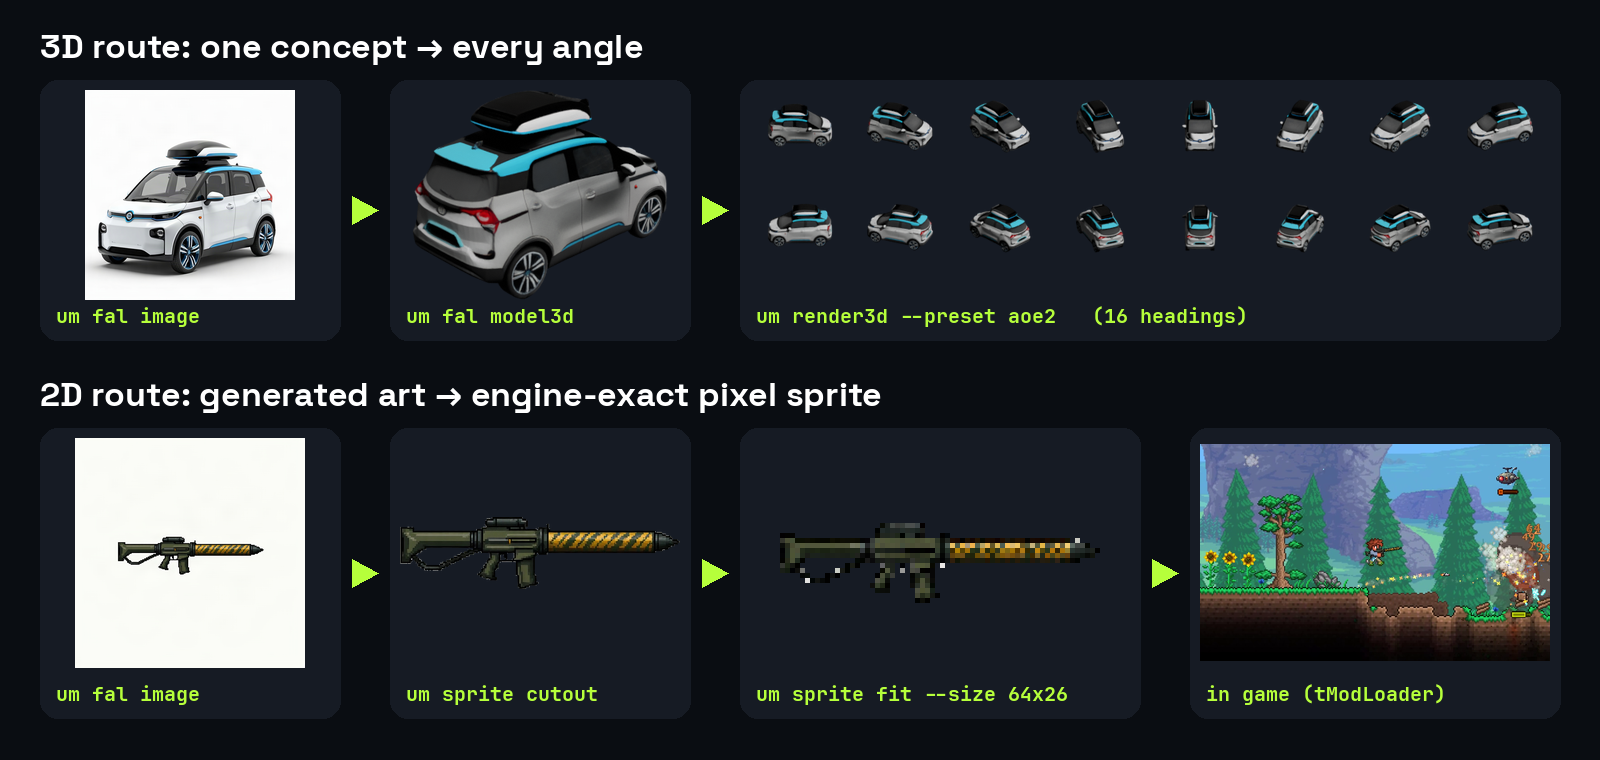
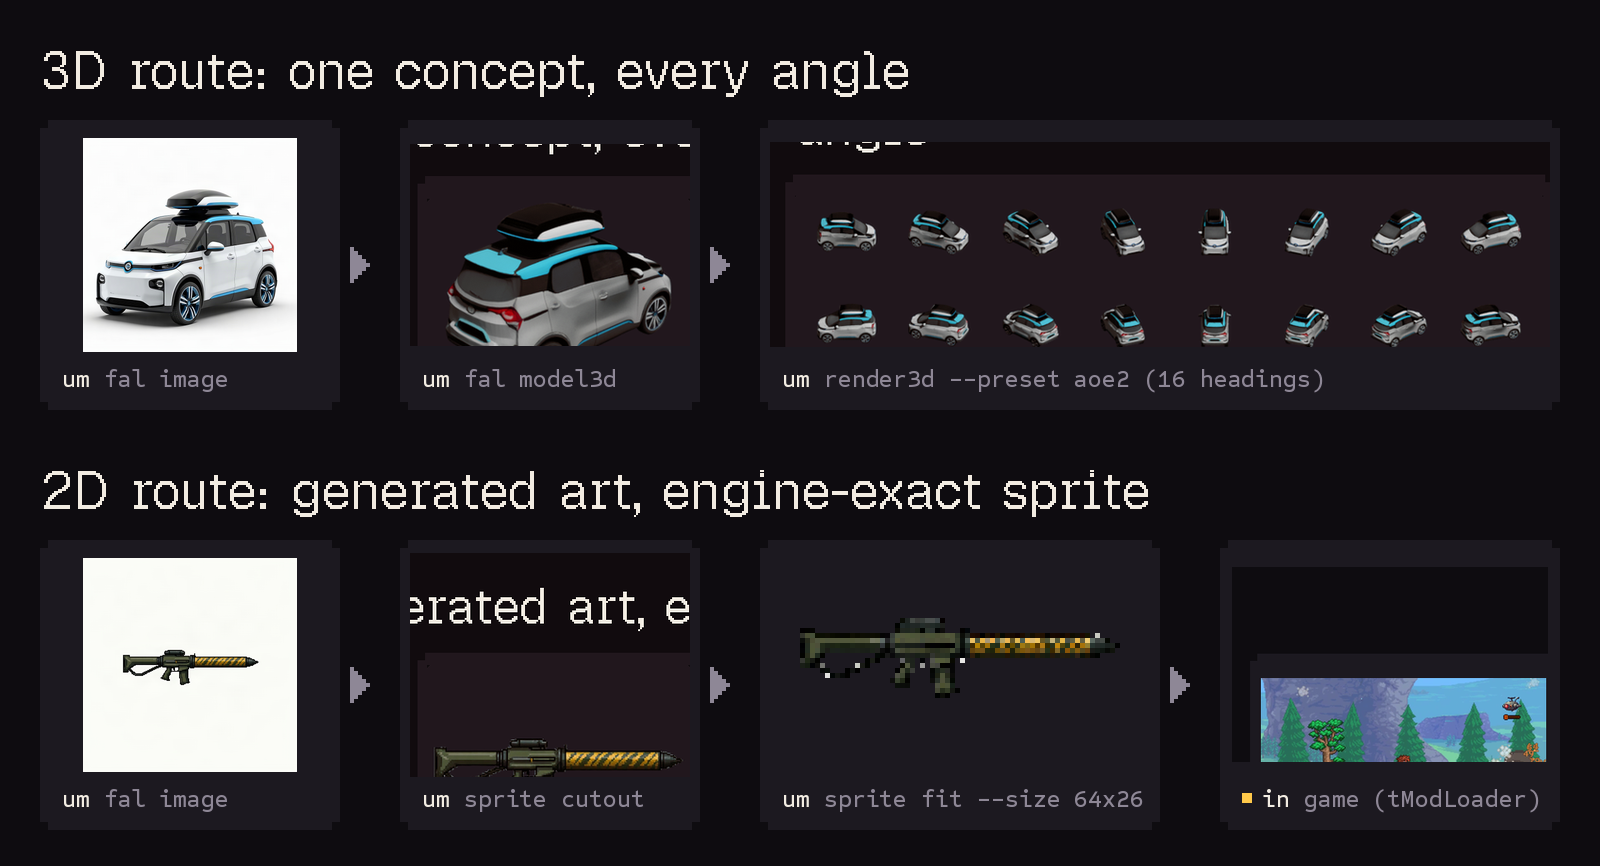
docs: put the README on the universal-modder brand (#69)

diff --git a/README.md b/README.md
@@ -1,24 +1,25 @@
 <p align="center">
-  <img src="docs/media/banner.png" alt="universal-modder" width="100%">
+  <img src="docs/media/banner.png" alt="universal-modder: mod any game. Point any AI coding agent at the PC games you own. Publish your mods, remix other people's, and make new ones." width="100%">
 </p>
 
 <p align="center">
   <b>Skills, tools and a shared knowledge base that let any AI coding agent mod almost any PC game you own.</b><br>
-  Works with Claude Code, Codex, Cursor, Gemini CLI, GitHub Copilot, OpenCode, or anything that reads <code>AGENTS.md</code>.<br>
   The agent finds the game, works out the engine and the route, reads the real code, builds the mod, makes art, 3D and sound
   with <a href="https://fal.ai">fal</a>, tests it in the running game, cuts the video, and writes down what it learned for the next agent.
 </p>
 
 <p align="center">
-  <a href="#install"><img alt="any agent" src="https://img.shields.io/badge/agents-Claude%20Code%20·%20Codex%20·%20Cursor%20·%20Gemini%20·%20Copilot-B6FF3B?labelColor=0A0D12"></a>
-  <a href="knowledge/INDEX.md"><img alt="knowledge base" src="https://img.shields.io/badge/knowledge%20base-field%20notes-B6FF3B?labelColor=0A0D12"></a>
-  <a href="https://fal.ai"><img alt="assets by fal" src="https://img.shields.io/badge/assets-fal-B6FF3B?labelColor=0A0D12"></a>
-  <a href="LICENSE"><img alt="MIT" src="https://img.shields.io/badge/license-MIT-B6FF3B?labelColor=0A0D12"></a>
+  <a href="#install"><img alt="works with Claude Code, Codex, Cursor, Gemini CLI, GitHub Copilot and OpenCode" src="docs/media/badges/agents.png" height="26"></a>
+  <a href="knowledge/INDEX.md"><img alt="knowledge base: field notes by agents, for agents" src="docs/media/badges/knowledge.png" height="26"></a>
+  <a href="https://fal.ai"><img alt="assets: fal" src="docs/media/badges/fal.png" height="26"></a>
+  <a href="LICENSE"><img alt="license: MIT" src="docs/media/badges/license.png" height="26"></a>
 </p>
 
 <p align="center">
-  <img src="docs/media/teaser.gif" alt="A tactical nuke in Terraria and robotaxis in Age of Empires II, both built with universal-modder" width="560">
+  <img src="docs/media/teaser.gif" alt="Six mods made by AI coding agents: Steve gliding an elytra through Los Santos, the Nether spreading over Los Santos, Minecraft mobs fighting the LSPD, the Halo Warthog in Minecraft, a World at War flamethrower in Minecraft, and World at War zombies in Minecraft" width="560">
 </p>
+
+<p align="center"><b>Coming next: the mod hub.</b> Publish your mods, remix other people's, and make new ones.</p>
 
 ## Install
 
@@ -26,13 +27,13 @@ Pick your agent. Each gets the same skills (Agent Skills format), the fal MCP se
 
 | Agent | Install |
 |---|---|
-| **Claude Code** | `/plugin marketplace add rehan-remade/universal-modder`, then `/plugin install universal-modder@universal-modder` |
-| **Codex** | `codex plugin marketplace add rehan-remade/universal-modder`, then `codex plugin add universal-modder@universal-modder` |
+| **Claude Code** | `/plugin marketplace add rehan-remade/universal-modder`<br>`/plugin install universal-modder@universal-modder` |
+| **Codex** | `codex plugin marketplace add rehan-remade/universal-modder`<br>`codex plugin add universal-modder@universal-modder` |
 | **Gemini CLI** | `gemini extensions install https://github.com/rehan-remade/universal-modder` |
 | **VS Code / Copilot** | Enable `chat.plugins.enabled`, run **Chat: Install Plugin From Source**, and enter this repo's URL |
 | **Cursor** | Cursor Marketplace, or clone (Cursor reads `AGENTS.md` and `.cursor/mcp.json`) |
 | **OpenCode** | Clone and run `opencode` inside it (`opencode.json` adds the skills and the fal MCP server) |
-| **Skills only** (any agent) | `npx skills add https://github.com/rehan-remade/universal-modder` |
+| **Skills only**<br>(any agent) | `npx skills add https://github.com/rehan-remade/universal-modder` |
 | **Anything else** | `git clone https://github.com/rehan-remade/universal-modder` and start your agent inside it |
 
 Inside a clone, each agent finds the skills where it looks for them: `.agents/skills` (Codex, Gemini CLI,
@@ -58,6 +59,8 @@ Windows games are driven natively or from WSL.
 > Make a new civilization for Age of Empires II with a unique unit rendered from 3D.
 
 > Put real Minecraft inside GTA V story mode. Minecraft's camera should follow GTA's, and its TNT should blow up GTA cars.
+
+> Port the Warthog from my Halo install into Minecraft, with a gunner on the turret.
 
 > What engine is `C:\Games\Foo`, and has anyone modded it before?
 
@@ -95,42 +98,55 @@ Browse [`knowledge/INDEX.md`](knowledge/INDEX.md). Every game is welcome. Contri
 AIs, are in [`CONTRIBUTING.md`](CONTRIBUTING.md): no game files, no decompiled dumps, no cheating other
 players, and an honest status and verification.
 
+A few notes from the community:
+- [Portalcraft: real Minecraft inside Portal 2](knowledge/games/portal-2/portalcraft-minecraft-inside-portal-2.md)
+- [Halo 3 weapons, Covenant, vehicles and maps ported into Minecraft](knowledge/games/halo-3-mcc/halo-3-weapons-covenant-vehicles-and-maps-ported-into-minecr.md)
+- [Bloons TD 6 inside Minecraft, with the game's rules as a headless sim](knowledge/games/minecraft/bloons-td-6-in-minecraft.md)
+- [A CS2-style conversion of Elden Ring offline, as a native Rust DLL](knowledge/games/elden-ring/cs2-conversion-of-elden-ring-offline-native-rust-dll-via-me3.md)
+
 ## What's inside
 
 **Skills** (`skills/`, Agent Skills format)
 
-| Skill | What it does |
-|---|---|
-| `mod-any-game` | The whole loop, hard safety rules, and **12 engine playbooks**: Unity, Unreal, .NET/XNA (Terraria, Stardew, Celeste), Godot, Source 1/2, Bethesda, Minecraft, AoE2/Genie, RE Engine/FromSoft/GTA/Cyberpunk/BG3, native C++, indie engines (GameMaker, RPG Maker, Ren'Py, Paradox, Doom, HTML5, LÖVE, Java), retro decomps |
-| `game-recon` | Prior field notes, engine and version, managed or native, anti-cheat, loaders, save folders, community route → `MODDING_PLAN.md` |
-| `reverse-engineering` | ILSpy / Cpp2IL / Vineflower / Ghidra and IDA over MCP / Cheat Engine / Frida / RenderDoc; reverse-engineer a file format and prove it with a round trip |
-| `fal-assets` | Sprites with real transparency, consistent variants, pixel art, seamless textures, PBR maps, image-to-3D, auto-rigging, SFX, music, voice, cutscene video |
-| `asset-pipeline` | Art → engine-exact frames: cutout, nearest-neighbour fit, palettes, sheets, team-colour masks, 3D → 8/16-heading sprites |
-| `game-automation` | Launch, screenshot (GPU-safe), click/type safely, windowed mode, crash-reporter cleanup, in-game agent bridges |
-| `showcase-video` | Record the window with only the game's audio, pick moments, cut a styled video from an EDL |
-| `mashup-mods` | Game inside a game: content ports, passthrough mods (worked example: Minecraft × GTA V), decomps as libraries, reimplementations |
-| `publish-mod` | Lint, package per platform, credits, the post |
-| `share-field-notes` | Search the knowledge base, write your own note, open the PR |
+<table>
+  <thead><tr><th width="200">Skill</th><th>What it does</th></tr></thead>
+  <tbody>
+    <tr><td><a href="skills/mod-any-game"><code>mod-any-game</code></a></td><td>The whole loop, hard safety rules, and <b>12 engine playbooks</b>: Unity, Unreal, .NET/XNA (Terraria, Stardew, Celeste), Godot, Source 1/2, Bethesda, Minecraft, AoE2/Genie, RE Engine/FromSoft/GTA/Cyberpunk/BG3, native C++, indie engines (GameMaker, RPG Maker, Ren'Py, Paradox, Doom, HTML5, LÖVE, Java), retro decomps</td></tr>
+    <tr><td><a href="skills/game-recon"><code>game-recon</code></a></td><td>Prior field notes, engine and version, managed or native, anti-cheat, loaders, save folders, community route → <code>MODDING_PLAN.md</code></td></tr>
+    <tr><td><a href="skills/reverse-engineering"><code>reverse-engineering</code></a></td><td>ILSpy / Cpp2IL / Vineflower / Ghidra and IDA over MCP / Cheat Engine / Frida / RenderDoc; reverse-engineer a file format and prove it with a round trip</td></tr>
+    <tr><td><a href="skills/fal-assets"><code>fal-assets</code></a></td><td>Sprites with real transparency, consistent variants, pixel art, seamless textures, PBR maps, image-to-3D, auto-rigging, SFX, music, voice, cutscene video</td></tr>
+    <tr><td><a href="skills/asset-pipeline"><code>asset-pipeline</code></a></td><td>Art → engine-exact frames: cutout, nearest-neighbour fit, palettes, sheets, team-colour masks, 3D → 8/16-heading sprites</td></tr>
+    <tr><td><a href="skills/game-automation"><code>game-automation</code></a></td><td>Launch, screenshot (GPU-safe), click/type safely, windowed mode, crash-reporter cleanup, in-game agent bridges</td></tr>
+    <tr><td><a href="skills/showcase-video"><code>showcase-video</code></a></td><td>Record the window with only the game's audio, pick moments, cut a styled video from an EDL</td></tr>
+    <tr><td><a href="skills/mashup-mods"><code>mashup-mods</code></a></td><td>Game inside a game: content ports, passthrough mods (worked example: Minecraft × GTA V), decomps as libraries, reimplementations</td></tr>
+    <tr><td><a href="skills/publish-mod"><code>publish-mod</code></a></td><td>Lint, package per platform, credits, the post</td></tr>
+    <tr><td><a href="skills/share-field-notes"><code>share-field-notes</code></a></td><td>Search the knowledge base, write your own note, open the PR</td></tr>
+  </tbody>
+</table>
 
 **The `um` CLI** (Python). Every command has `--help` with examples.
 
-| | |
-|---|---|
-| `um scan` | Find Steam/Epic/Xbox installs; fingerprint engine and version, .NET vs native, anti-cheat, installed loaders, save folders, ranked routes |
-| `um fal` | `sprite`, `image`, `edit`, `rmbg`, `pixelate`, `upscale`, `texture`, `pbr`, `model3d`, `rig`, `sfx`, `music`, `voice`, `video`, `run`, `search`, `schema`, `price`. Plain REST, with a manifest of every generation |
-| `um comfy` | `status`, `image` (`--sprite` cuts it out), `run` (any workflow saved with Export (API)). Images from a local ComfyUI server, no API key |
-| `um sprite` | `cutout`, `fit`, `pixelate`, `palette`, `sheet`, `slice`, `frames`, `team-mask`, `seamless`, `preview` |
-| `um render3d` | GLB → sprite frames from the game's camera (`aoe2`, `iso8`, `trueiso`, `topdown`, `side`, `turntable`) with Blender |
-| `um win` | `shot`, `record` (gfxcapture + process-loopback audio), `drive` (input that only reaches the game), `ps`, `kill`, `launch`, `reg` |
-| `um video` | `contact` sheets, `compile` (EDL → titled, beat-cut video with music), `mux`, `beats`, `first-frame` |
-| `um backup` | Snapshot, diff and restore save folders |
-| `um publish check` | Blocks shipping game files, decompiled code and leaked keys |
-| `um kb` | The knowledge base: `search`, `show`, `new`, `check`, `index`, `sync`, `pr` |
+<!-- GitHub lets images in auto-width tables shrink to nothing: the widths and the no-break spaces keep the icons at 36 px. -->
+<table>
+  <thead><tr><th width="62">&nbsp;&nbsp;&nbsp;&nbsp;&nbsp;&nbsp;&nbsp;&nbsp;&nbsp;&nbsp;</th><th width="170">Command</th><th>What it does</th></tr></thead>
+  <tbody>
+    <tr><td align="center"><picture><source media="(prefers-color-scheme: dark)" srcset="docs/media/icons/scan-dark.svg"><img src="docs/media/icons/scan-light.svg" width="36" height="36" alt=""></picture></td><td><code>um scan</code></td><td>Find Steam/Epic/Xbox installs; fingerprint engine and version, .NET vs native, anti-cheat, installed loaders, save folders, ranked routes</td></tr>
+    <tr><td align="center"><picture><source media="(prefers-color-scheme: dark)" srcset="docs/media/icons/fal-dark.svg"><img src="docs/media/icons/fal-light.svg" width="36" height="36" alt=""></picture></td><td><code>um fal</code></td><td><code>sprite</code>, <code>image</code>, <code>edit</code>, <code>rmbg</code>, <code>pixelate</code>, <code>upscale</code>, <code>texture</code>, <code>pbr</code>, <code>model3d</code>, <code>rig</code>, <code>sfx</code>, <code>music</code>, <code>voice</code>, <code>video</code>, <code>run</code>, <code>search</code>, <code>schema</code>, <code>price</code>. Plain REST, with a manifest of every generation</td></tr>
+    <tr><td align="center"><picture><source media="(prefers-color-scheme: dark)" srcset="docs/media/icons/comfy-dark.svg"><img src="docs/media/icons/comfy-light.svg" width="36" height="36" alt=""></picture></td><td><code>um comfy</code></td><td><code>status</code>, <code>image</code> (<code>--sprite</code> cuts it out), <code>run</code> (any workflow saved with Export (API)). Images from a local ComfyUI server, no API key</td></tr>
+    <tr><td align="center"><picture><source media="(prefers-color-scheme: dark)" srcset="docs/media/icons/sprite-dark.svg"><img src="docs/media/icons/sprite-light.svg" width="36" height="36" alt=""></picture></td><td><code>um sprite</code></td><td><code>cutout</code>, <code>fit</code>, <code>pixelate</code>, <code>palette</code>, <code>sheet</code>, <code>slice</code>, <code>frames</code>, <code>team-mask</code>, <code>seamless</code>, <code>preview</code></td></tr>
+    <tr><td align="center"><picture><source media="(prefers-color-scheme: dark)" srcset="docs/media/icons/render3d-dark.svg"><img src="docs/media/icons/render3d-light.svg" width="36" height="36" alt=""></picture></td><td><code>um render3d</code></td><td>GLB → sprite frames from the game's camera (<code>aoe2</code>, <code>iso8</code>, <code>trueiso</code>, <code>topdown</code>, <code>side</code>, <code>turntable</code>) with Blender</td></tr>
+    <tr><td align="center"><picture><source media="(prefers-color-scheme: dark)" srcset="docs/media/icons/win-dark.svg"><img src="docs/media/icons/win-light.svg" width="36" height="36" alt=""></picture></td><td><code>um win</code></td><td><code>shot</code>, <code>record</code> (gfxcapture + process-loopback audio), <code>drive</code> (input that only reaches the game), <code>ps</code>, <code>kill</code>, <code>launch</code>, <code>reg</code></td></tr>
+    <tr><td align="center"><picture><source media="(prefers-color-scheme: dark)" srcset="docs/media/icons/video-dark.svg"><img src="docs/media/icons/video-light.svg" width="36" height="36" alt=""></picture></td><td><code>um video</code></td><td><code>contact</code> sheets, <code>compile</code> (EDL → titled, beat-cut video with music), <code>mux</code>, <code>beats</code>, <code>first-frame</code></td></tr>
+    <tr><td align="center"><picture><source media="(prefers-color-scheme: dark)" srcset="docs/media/icons/backup-dark.svg"><img src="docs/media/icons/backup-light.svg" width="36" height="36" alt=""></picture></td><td><code>um backup</code></td><td>Snapshot, diff and restore save folders</td></tr>
+    <tr><td align="center"><picture><source media="(prefers-color-scheme: dark)" srcset="docs/media/icons/publish-dark.svg"><img src="docs/media/icons/publish-light.svg" width="36" height="36" alt=""></picture></td><td><code>um publish check</code></td><td>Blocks shipping game files, decompiled code and leaked keys</td></tr>
+    <tr><td align="center"><picture><source media="(prefers-color-scheme: dark)" srcset="docs/media/icons/kb-dark.svg"><img src="docs/media/icons/kb-light.svg" width="36" height="36" alt=""></picture></td><td><code>um kb</code></td><td>The knowledge base: <code>search</code>, <code>show</code>, <code>new</code>, <code>check</code>, <code>index</code>, <code>sync</code>, <code>pr</code></td></tr>
+  </tbody>
+</table>
 
 Two no-build Windows tools ship inside the package (`um/ps1/`): WinDrive input and ProcLoopback game-only
 audio, both PowerShell with embedded C#.
 
-<p align="center"><img src="docs/media/pipeline.png" alt="3D route: fal concept to 3D to 16 AoE2 headings. 2D route: fal art to cutout to a 64x26 Terraria sprite in game." width="100%"></p>
+<p align="center"><img src="docs/media/pipeline.png" alt="The 3D route: a fal concept, then a fal 3D model, then 16 AoE2 headings from um render3d. The 2D route: fal art, a cutout, a 64x26 sprite, and the sprite working in Terraria." width="100%"></p>
 
 ## Built with it
 - **[examples/terraria-tmodloader](examples/terraria-tmodloader)**: *Fal Arsenal* for tModLoader.
@@ -164,6 +180,18 @@ Each has a field note with every non-obvious lesson: [knowledge/INDEX.md](knowle
 
 Full reasoning: [`skills/mod-any-game/references/safety.md`](skills/mod-any-game/references/safety.md).
 
+## Made a mod with it?
+Put the badge on your mod's page:
+
+<p>
+  <picture><source media="(prefers-color-scheme: dark)" srcset="docs/media/made-with-dark.svg"><img src="docs/media/made-with-light.svg" height="32" alt="made with universal-modder"></picture>
+</p>
+
+```markdown
+[![made with universal-modder](https://raw.githubusercontent.com/rehan-remade/universal-modder/main/docs/media/made-with-dark.svg)](https://github.com/rehan-remade/universal-modder)
+```
+Use `made-with-light.svg` on a light page.
+
 ## Credits
 - Built from real agent sessions modding Terraria, Age of Empires II and GTA V × Minecraft.
 - Assets: [fal](https://fal.ai) (GPT Image 2, Nano Banana 2, FLUX, Trellis 2, ElevenLabs...).
@@ -173,4 +201,4 @@ Full reasoning: [`skills/mod-any-game/references/safety.md`](skills/mod-any-game
 - The engine playbooks also draw on the September 2026 wave of AI-built mods, and on how their creators
   explained them in public.
 
-MIT licensed. Fonts: Space Grotesk and JetBrains Mono (SIL OFL).
+MIT licensed. Brand type: Geist Pixel, Sometype Mono and Instrument Sans. Video titles: Space Grotesk and JetBrains Mono. All under the SIL OFL.
